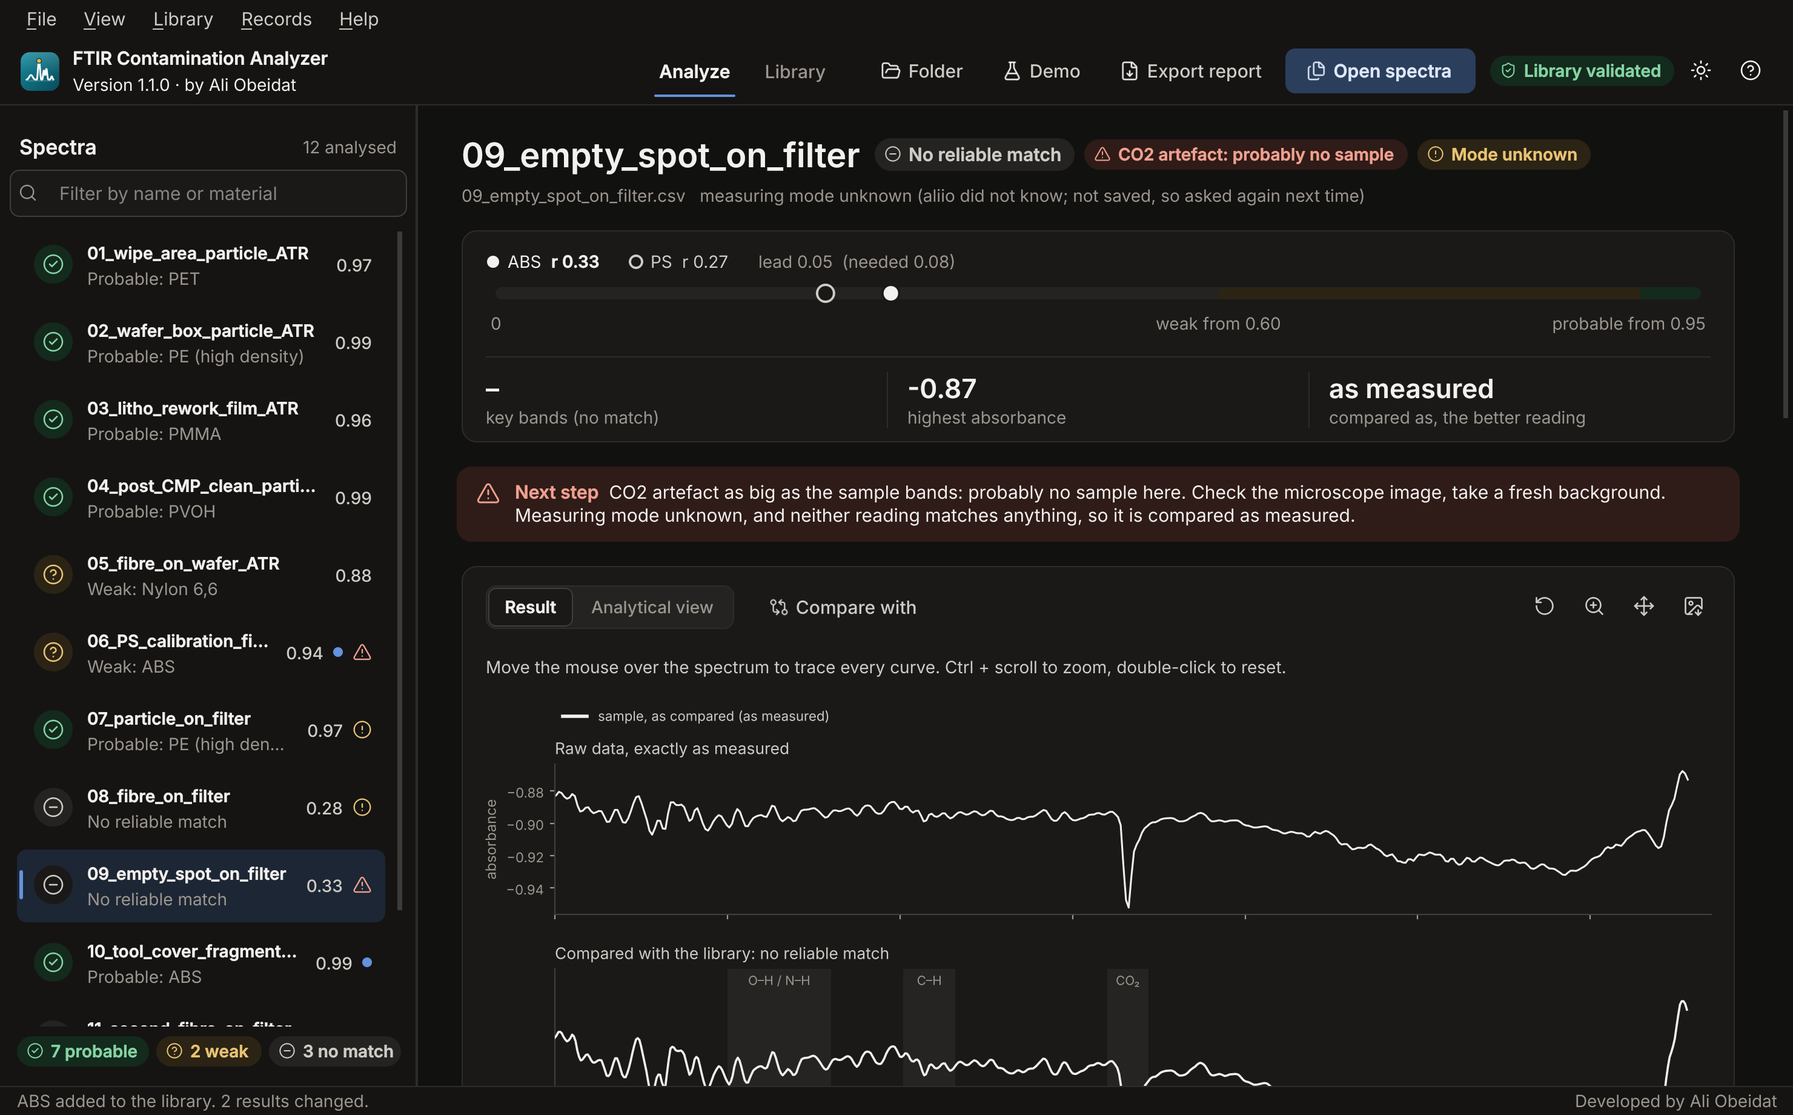
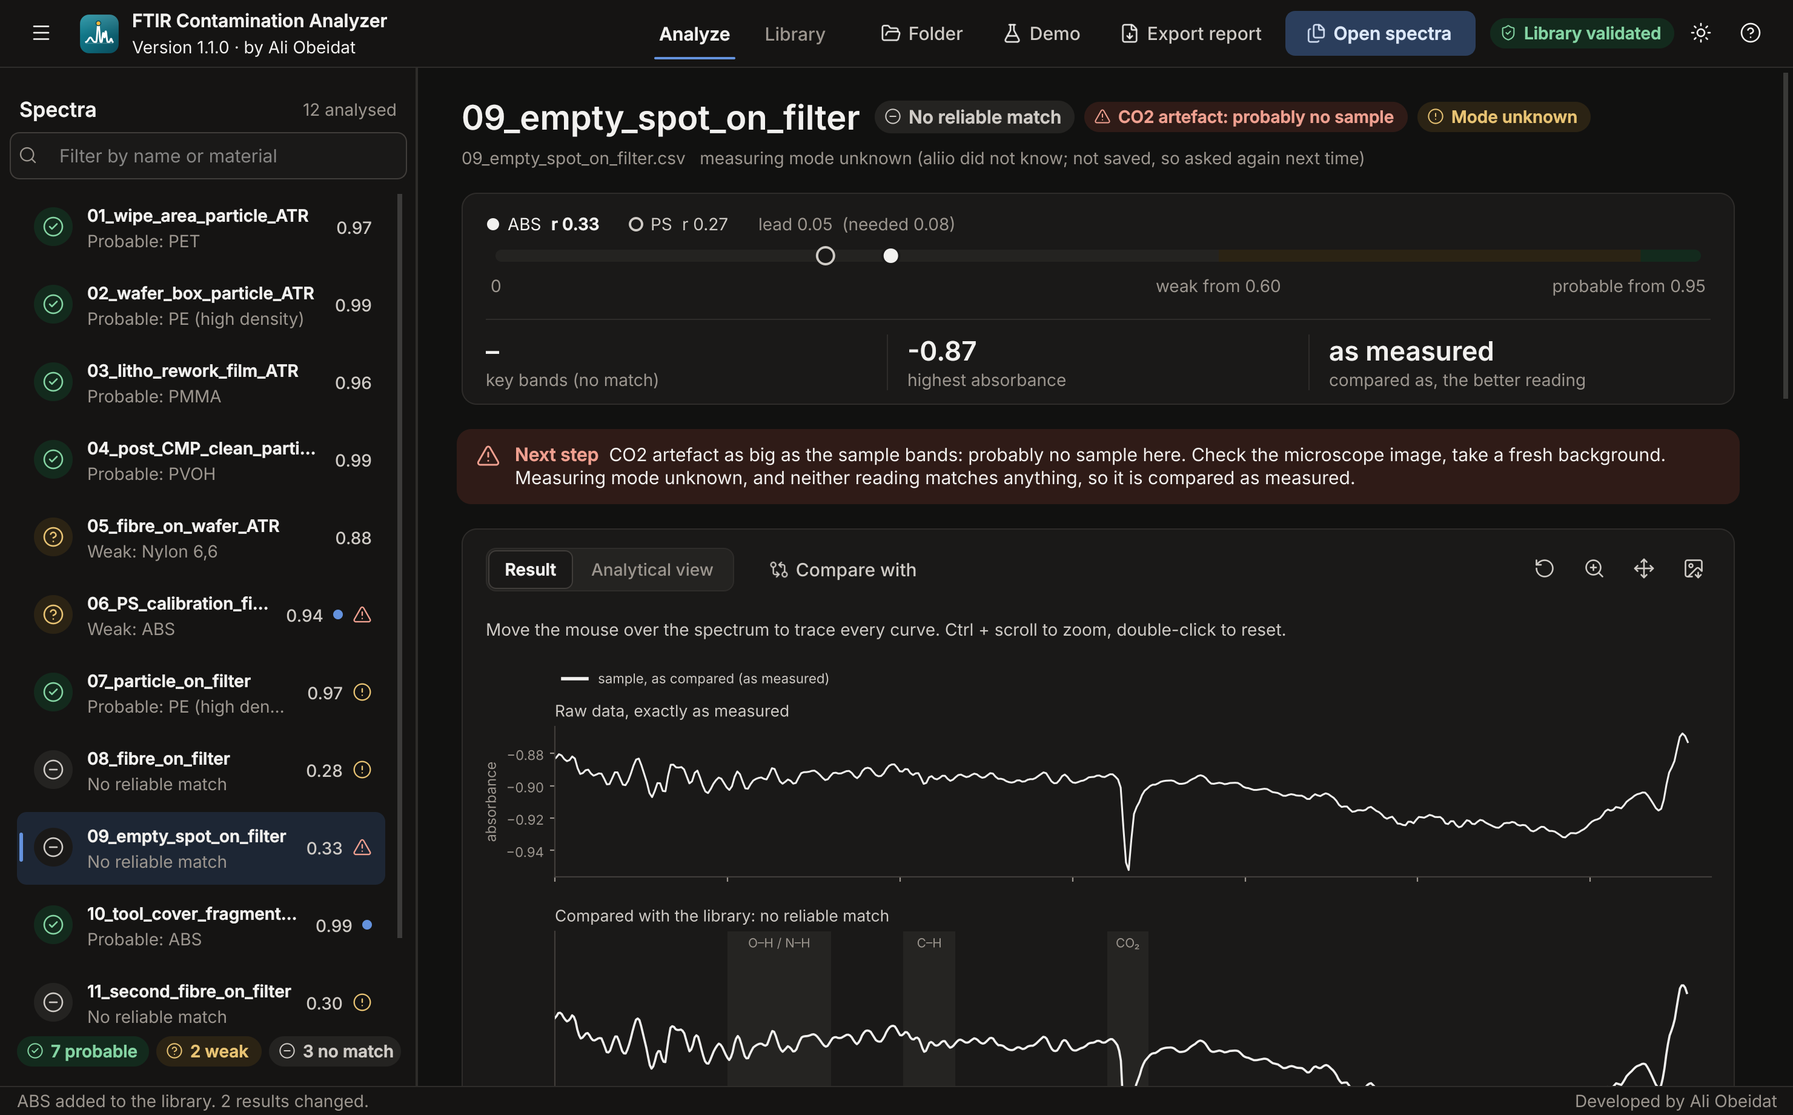
One top bar, clean sheet interactions, docs for the new tools
Top bar
- The menus (File, View, Library, Records, Help) are behind one button at
  the left of the top bar instead of a separate menu bar: one quiet bar.
  Every shortcut still works without opening it. Below 1180 px the name
  next to the logo steps aside, like the version line.

Interactions (found by clicking through the app quickly, then fixed)
- A sheet opened while another was still fading out kept the old one in
  its picture of the window. The old one is now finished at once first.
- Switching the page (Ctrl+1 / Ctrl+2) with a sheet open changed the page
  behind the sheet; the sheet now closes, as it belongs to its page.
- Switching the theme with a sheet open left a light window behind a dark
  sheet and a dark close button on dark; the window behind is photographed
  again once the fade has finished, and the close button recoloured.

Docs
- README: instrument files, another sample over this one, labels on the
  figure, the two-component fit, water vapour, the menu button.
- CHECK_IT_YOURSELF.md: section F with what to look for.
- Screenshots updated; the welcome page names the new file types.

Checked: 114 tests; layout audit 0 issues at 9 window sizes x 3 display
scales; 60 frames per second in every transition.

diff --git a/ftir_analyzer/gui.py b/ftir_analyzer/gui.py
@@ -3,8 +3,9 @@ FTIR Contamination Analyzer - desktop application
 
 The window a lab user works in:
 
-    toolbar       logo and name; the Analyze | Library switch in the middle; Open spectra /
-                  Open folder / Demo / Export report; the library validation badge; light-dark; help
+    toolbar       one bar: the menu (File, View, Library, Records, Help) behind one button, logo
+                  and name; the Analyze | Library switch in the middle; Open spectra / Open folder /
+                  Demo / Export report; the library validation badge; light-dark; help
     Analyze       left: the analysed spectra (status icon, name, match, score, flags), with a filter
                   right: the result of the selected spectrum
                     name, verdict, match and flags
@@ -711,7 +712,9 @@ class MainWindow(QMainWindow):
         self.act_about = make(f"About {__title__}", "", self.show_about)
 
     def _build_menu(self):
-        bar = self.menuBar()
+        """The menus live behind one button at the left of the top bar (no separate menu bar: one
+        quiet bar instead of two). Every action is also on the window, so its shortcut always works."""
+        bar = self.main_menu = QMenu(self)
         file_menu = bar.addMenu("&File")
         for action in (self.act_open, self.act_folder, self.act_demo, None, self.act_export, None,
                        self.act_remove, self.act_clear, None, self.act_quit):
@@ -745,13 +748,22 @@ class MainWindow(QMainWindow):
         grid.setHorizontalSpacing(16)
         header.setFixedHeight(56)
 
-        # left: logo and name
+        # left: the menu, the logo and the name
         left = QHBoxLayout()
         left.setSpacing(10)
+        self.menu_button = QToolButton()
+        self.menu_button.setToolTip("Menu: open, export, view, library, records, help")
+        self.menu_button.setAccessibleName("Menu")
+        self.menu_button.setIconSize(QSize(18, 18))
+        self.menu_button.setPopupMode(QToolButton.InstantPopup)
+        self.menu_button.setMenu(self.main_menu)
+        self.menu_button.setCursor(Qt.PointingHandCursor)
+        left.addWidget(self.menu_button)
+        left.addSpacing(2)
         self.logo = QLabel()
         titles = QVBoxLayout()
         titles.setSpacing(0)
-        title = QLabel(__title__)
+        self.app_title = title = QLabel(__title__)
         title.setObjectName("AppTitle")
         self.subtitle = subtitle = QLabel(f"Version {__version__} · by {__author__}")
         subtitle.setObjectName("AppSubtitle")
@@ -924,7 +936,13 @@ class MainWindow(QMainWindow):
     # ------------------------------------------------------------------ theme and motion
     def apply_theme(self, name):
         """Switch between the light and the dark theme; the old look fades into the new one."""
-        crossfade(self, lambda: self._apply_theme(name))
+        crossfade(self, lambda: self._apply_theme(name), on_done=self._after_theme)
+
+    def _after_theme(self):
+        """An open sheet shows a photo of the window behind it: photograph it again in the new theme
+        (once the fade has finished, so the photo is of the finished window)."""
+        if self.sheet is not None:
+            self.sheet.refresh_background()
 
     def _apply_theme(self, name):
         Theme.t = THEMES.get(name, THEMES["light"])
@@ -937,6 +955,9 @@ class MainWindow(QMainWindow):
             button.setIcon(icon(icon_name, t["on_primary"] if primary else t["header_ink"]))
         self.theme_button.setIcon(icon("sun" if t["name"] == "dark" else "moon", t["header_ink"]))
         self.help_button.setIcon(icon("circle-help", t["header_ink"]))
+        self.menu_button.setIcon(icon("menu", t["header_ink"]))
+        if self.sheet is not None:                                         # an open sheet's close button
+            self.sheet.set_close_icon(icon("x", t["ink_2"]))
         if not self.search.actions():                                      # the magnifier inside the filter box
             self.search.addAction(icon("search", t["muted"], 16), QLineEdit.LeadingPosition)
         self.search.actions()[0].setIcon(icon("search", t["muted"], 16))
@@ -971,6 +992,8 @@ class MainWindow(QMainWindow):
     def show_page(self, page):
         """Show the Analyze page or the Library page (the new page slides in)."""
         target = self.library_page if page == LIBRARY else self.analyze_page
+        if self.sheet is not None and self.pages.currentWidget() is not target:
+            self.sheet.close_sheet()                                   # a sheet belongs to the page it was opened on
         self.nav.set_value(page)
         if target is self.analyze_page and self.pending_glow:          # results changed while it was not shown:
             self.pending_glow = False                                  # they glow once the page has arrived
@@ -1614,7 +1637,7 @@ class MainWindow(QMainWindow):
     def resizeEvent(self, event):
         """On a narrow window the toolbar makes room in two steps (the tooltips still name everything):
         below 1440 px the buttons show only their icons; below 1180 px the library badge shows only its
-        shield and the version line under the name is left out."""
+        shield, and the name and version next to the logo are left out (the window title still names it)."""
         super().resizeEvent(event)
         compact = 2 if self.width() < 1180 else 1 if self.width() < 1440 else 0
         if compact != self.compact:
@@ -1623,6 +1646,7 @@ class MainWindow(QMainWindow):
                 button.setText(f" {self.header_texts[key]}" if primary or not compact else "")
             self.badge.set_compact(compact == 2)
             self.subtitle.setVisible(compact < 2)
+            self.app_title.setVisible(compact < 2)
 
     def closeEvent(self, event):
         if not self.isMaximized():

diff --git a/ftir_analyzer/motion.py b/ftir_analyzer/motion.py
@@ -353,10 +353,13 @@ def rise_in(host, old, new, bands, dy=10, duration=None, on_done=None):
     return Overlay(host, frame, duration, on_done=on_done)
 
 
-def crossfade(widget, change, duration=180):
-    """Run change() (for example: switch the theme) and let the old picture fade into the new one."""
+def crossfade(widget, change, duration=180, on_done=None):
+    """Run change() (for example: switch the theme) and let the old picture fade into the new one.
+    on_done: called when the fade has finished (at once with reduced motion)."""
     if Motion.reduced or not widget.isVisible():
         change()
+        if on_done:
+            on_done()
         return
     old = snapshot(widget)
     change()
@@ -367,7 +370,7 @@ def crossfade(widget, change, duration=180):
         p.setOpacity(ease(EASE_OUT, progress))
         p.drawPixmap(0, 0, new)
 
-    Overlay(widget, frame, duration)
+    Overlay(widget, frame, duration, on_done=on_done)
 
 
 # ---------------------------------------------------------------------------- smooth scrolling
@@ -910,6 +913,9 @@ class Sheet(QWidget):
         self.previous_focus = QApplication.focusWidget()           # gets the keyboard focus back afterwards
         self.setAttribute(Qt.WA_OpaquePaintEvent)
         self.setFocusPolicy(Qt.StrongFocus)
+        for other in host.findChildren(Sheet):                     # a sheet still fading out is finished at once,
+            if other is not self and other.isVisible():            # or it would be on the photo of the window
+                other.finish_now()
         self.background = host.grab()                             # the window behind, photographed once
         self.panel = SheetCard(self)
         self.panel.setObjectName("SheetPanel")
@@ -1059,32 +1065,45 @@ class Sheet(QWidget):
             self.panel.hide()
 
         Moving.start()
-
-        def finished():
-            Moving.end()
-            # hand the focus back first: otherwise Qt moves it on as if Tab had been pressed (a focus ring)
-            back = self.previous_focus if alive(self.previous_focus) and self.previous_focus.isVisible() else self.host
-            back.setFocus(Qt.OtherFocusReason)
-            self.hide()
-            self.closed.emit()
-            self.deleteLater()
-
         self._animation = animate(self, self.progress, 0.0, Motion.ms("sheet_out"), self._frame, QEasingCurve.Linear,
-                                  finished)
+                                  self._finished)
+
+    def _finished(self):
+        Moving.end()
+        # hand the focus back first: otherwise Qt moves it on as if Tab had been pressed (a focus ring)
+        back = self.previous_focus if alive(self.previous_focus) and self.previous_focus.isVisible() else self.host
+        back.setFocus(Qt.OtherFocusReason)
+        self.hide()
+        self.closed.emit()
+        self.deleteLater()
+
+    def finish_now(self):
+        """Gone at once, without the fade (another sheet is opening in its place)."""
+        if not self.closing:
+            self.close_sheet()
+        if alive(self._animation):
+            stop(self._animation)
+            self._finished()
 
     def eventFilter(self, obj, event):
         if self.closing:
             return False
         if obj is self.host and event.type() == QEvent.Resize:
-            self.hide()                                            # photograph the resized window without the sheet
-            self.setGeometry(self.host.rect())
-            self.background = self.host.grab()
-            self._place_panel()
-            self.show()
-            self.raise_()
+            self.refresh_background()
         elif obj is self.content and event.type() == QEvent.LayoutRequest and self.has_arrived and not self.tall:
             QTimer.singleShot(0, self._refit)                      # the content changed size: follow it
         return False
+
+    def refresh_background(self):
+        """Photograph the window behind again (it was resized, or its theme changed), without the sheet."""
+        if self.closing:
+            return
+        self.hide()
+        self.setGeometry(self.host.rect())
+        self.background = self.host.grab()
+        self._place_panel()
+        self.show()
+        self.raise_()
 
     def _refit(self):
         if alive(self) and not self.closing and self._panel_rect() != self.panel.geometry():

diff --git a/tests/test_gui.py b/tests/test_gui.py
@@ -397,3 +397,30 @@ def test_exporting_a_signed_report(app, window, tmp_path):
     assert window.settings.value("user_name") == "Ali Obeidat"                  # remembered for next time
     assert "Ali Obeidat" in window.signature_log.read_text(encoding="utf-8")
     window.report_box.close()
+
+
+def test_sheets_never_leave_a_trace(app, window):
+    """With animations on: a sheet opened while another is still fading out does not keep it in its
+    picture of the window; switching the page closes the sheet; switching the theme re-photographs
+    the window behind an open sheet."""
+    from ftir_analyzer.motion import Sheet
+    Motion.reduced = False
+    try:
+        window.show_page(LIBRARY)
+        wait(app, lambda: False, 0.6)
+        window.open_similarity()
+        wait(app, lambda: window.sheet is not None and window.sheet.has_arrived, 5)
+        first = window.sheet
+        first.close_sheet()                                              # still fading out ...
+        window.open_material("PET")                                      # ... when the next one opens
+        assert not first.isVisible()                                     # finished at once, not photographed
+        wait(app, lambda: window.sheet.has_arrived, 5)
+        assert [s for s in window.centralWidget().findChildren(Sheet) if s.isVisible()] == [window.sheet]
+        before = window.sheet.background.toImage()
+        window.apply_theme("dark")
+        wait(app, lambda: window.sheet.background.toImage() != before, 5)  # the window behind, photographed again
+        window.show_page("analyze")
+        wait(app, lambda: window.sheet is None, 5)                       # a sheet belongs to its page
+    finally:
+        window.apply_theme("light")
+        Motion.reduced = True

diff --git a/ftir_analyzer/widgets.py b/ftir_analyzer/widgets.py
@@ -1030,7 +1030,8 @@ class EmptyState(QWidget):
         self.library_link.setObjectName("Link")
         for button in (self.choose, self.demo, self.library_link):
             button.setCursor(Qt.PointingHandCursor)
-        self.formats = QLabel("CSV, TXT or DPT exports in %T or absorbance, with or without a header line")
+        self.formats = QLabel("CSV, TXT or DPT exports, JCAMP-DX (.jdx) or Bruker OPUS (.0, .1 …) files, "
+                              "in %T or absorbance")
         self.formats.setObjectName("SectionHint")
         self.formats.setAlignment(Qt.AlignCenter)
         self.formats.setWordWrap(True)

diff --git a/README.md b/README.md
@@ -139,7 +139,7 @@ SETTINGS = {
 
 | Action | How |
 | --- | --- |
-| Open spectrum files | **Open spectra** or `Ctrl+O` (CSV / TXT / DPT, %T or absorbance, with or without a header, any separator) |
+| Open spectrum files | **Open spectra** or `Ctrl+O`: CSV / TXT / DPT exports (%T or absorbance, with or without a header, any separator), or the instrument's own files: **JCAMP-DX** (`.jdx`, `.dx`) and **Bruker OPUS** (`.0`, `.1`, …). An instrument file that says how it was measured (ATR or transmission) is not asked about |
 | Open a whole folder | **Open folder** or `Ctrl+Shift+O` |
 | Drag and drop | Drop files or a folder anywhere on the window |
 | Try it | **Demo**: twelve real measurements with known answers ([`examples/README.md`](examples/README.md)) |
@@ -147,6 +147,7 @@ SETTINGS = {
 | Trace the curves | Move the mouse over the spectrum: a dot on every curve, their values, and the band's name |
 | Every processing step | Switch **Result → Analytical view** above the figure |
 | Compare with another material | **Compare with** above the figure, or click one of the **Closest matches** under it |
+| Two finds the same material? | **Compare with → Another sample over this one**: the other sample is drawn as a dashed line, with r between the two in the legend (0.96 for the two PE particles 02 and 07) |
 | See how the shapes differ | **Closest matches**: the best four, side by side; *Spectrum* or *Fingerprint* |
 | Zoom, pan, reset | `Ctrl` + mouse wheel zooms around the mouse, double-click resets, or use the buttons above the figure |
 | Save a figure | The save button: PNG at 300 or 600 dpi, SVG or PDF (vector: any size). Saves the view on screen |
@@ -156,8 +157,9 @@ SETTINGS = {
 | More references | **Library → Open Specy…**: download or import; then switch **Fab essentials / Extended** |
 | Add a reference | **Add to library…** on a result that is not *probable*, or **Library → Add a reference…** (`Ctrl+N`) |
 | Light / dark | The moon / sun button or `Ctrl+T`. **View → Reduce motion** switches the animations off |
-| Records | **Records** menu: sample log, audit log, signatures, each as a formatted Excel copy. **Library** menu: the library change log |
-| Help | `F1` (how it works), **Help → About** |
+| The menus | The **☰** button at the left of the top bar: File, View, Library, Records, Help. Every shortcut works without opening it |
+| Records | **☰ → Records**: sample log, audit log, signatures, each as a formatted Excel copy. **☰ → Library**: the library change log |
+| Help | `F1` (how it works), **☰ → Help → About** |
 
 When a file does not say how it was measured (ATR or transmission), the program asks once, then saves
 the answer in the sample log with your user name and the date. Nothing is written into the raw files.
@@ -172,6 +174,22 @@ readings differ, and changes no verdict. When a mode *is* given but the other on
 transmission: "it fits clearly better as ATR (r 0.97 against 0.81)".
 
 ![Measuring-mode dialog](docs/mode_dialog.png)
+
+**On the figure.** The tallest bands carry their wavenumber; zone names, "unexplained" and the CO₂
+note each take the first place where they touch no other label, curve or line, and this is worked out
+again whenever the window changes size. Unexplained bands that find no room beside their line are
+named together on the panel's title line.
+
+**Second component?** When the match leaves clear bands unexplained, the program fits the spectrum as
+a mix of the match and each other reference (plus a straight background line). If one clearly helps
+(fit r up by 0.02 or more, at least 10 % of the band height, and it has the unexplained bands), the
+band evidence says so, e.g. "Fits as about 70 % PE + 30 % PET". The shares are of the band height,
+not of the mass, and the verdict itself is not changed. If none helps (as for the 1030 cm⁻¹ band of
+demo 07), it says the second material is probably not in the library.
+
+**Water vapour.** The sharp comb of water-vapour lines (air in the beam: purge longer or take a fresh
+background) is looked for at 3580–3950 cm⁻¹ on the file's own points; demo 06 has them. Files with
+points more than 4 cm⁻¹ apart are "not measured", because there the lines cannot be seen.
 
 ### Analytical view
 

diff --git a/examples/CHECK_IT_YOURSELF.md b/examples/CHECK_IT_YOURSELF.md
@@ -119,7 +119,7 @@ transmission sample) and how many did not say (used as measured). The badge must
    "**Accepted**, signed by Ali Obeidat (your login) on …", with your comment. Without signing, the
    report has fields you can type into before printing, and says **Not signed yet**.
 3. The report's folder also has **report.xlsx**: the results as a formatted Excel table.
-4. **Records → Signatures (Excel)**: one row for the signed report, with the decision in colour and
+4. **☰ (top left) → Records → Signatures (Excel)**: one row for the signed report, with the decision in colour and
    the start of the report's SHA-256. **Records → Audit log (Excel)** and **Sample log (Excel)** open
    the same way.
 5. In the open report, make the browser window narrow (half the screen), then wide again.
@@ -128,6 +128,26 @@ transmission sample) and how many did not say (used as measured). The badge must
 6. **Ctrl+P** (print preview). **You should see:** white paper with dark text, even if Windows is in
    dark mode, and the "Raw data and traceability" and "Analytical view" sections printed open.
    Cancel the print; the sections close again.
+
+## F. The new tools (labels, overlay, second component, water vapour, instrument files)
+
+1. Open the demo spectra and click **07_particle_on_filter**. **You should see:** above the score strip
+   "PE (high density) r 0.97", a hollow dot for EVA at 0.59; in the figure the labels 2915, 2850,
+   1465 and 720 above their peaks, and "1030 cm⁻¹ unexplained" beside its dashed line, not touching
+   it. Make the window narrow and wide: the labels move or hide, they never overlap.
+2. Under the figure, **Band evidence → Two-component fit** says that no mix explains 1030 clearly:
+   the second material is probably not in the library.
+3. **Compare with → Another sample over this one → 02_wafer_box_particle_ATR.** **You should see:** a
+   dashed line almost on top of the sample, and in the legend "other sample: 02_… (r = 0.96 to this
+   one)": the two particles are the same material. Choose **No other sample** to remove it.
+4. Click **06_PS_calibration_film_transmission**. **You should see:** the flags *Saturated bands* and
+   *Water-vapour lines*, and under **Checks on the raw spectrum** a row "Water vapour: 11.9× the
+   wiggle of the quiet windows → water-vapour lines".
+5. Open a sheet (e.g. **Library → Similarity map**), then press `Ctrl+T`: the window behind it turns
+   dark too. Press `Ctrl+1`: the sheet closes and the Analyze page shows.
+6. If you have a JCAMP-DX (`.jdx`) or Bruker OPUS (`.0`) file from an instrument: open it like any other
+   file. **You should see:** it is analysed; if the file says how it was measured, the program does
+   not ask.
 
 ## Checklist
 
@@ -144,7 +164,10 @@ transmission sample) and how many did not say (used as measured). The badge must
 | 07, mode transmission | Weak PE (0.81), flag mode doubt |
 | After adding Nylon 6 | stays on Analyze; 05 glows; "Changed … → Probable: Nylon 6 (r 0.96)" note |
 | Export → sign | report says "Signed: Accepted" and who and when; a row in Signatures |
-| Records menu | each log opens as a formatted Excel copy |
+| Records menu (☰) | each log opens as a formatted Excel copy |
+| 07 figure | labels 2915 / 2850 / 1465 / 720; "1030 cm⁻¹ unexplained" clear of its line |
+| 02 over 07 | dashed line, r = 0.96 to this one |
+| 06 | flag Water-vapour lines (11.9×) |
 
 The Nylon 6 reference is from FasTEX-KCL (MIT, Reeha Parkar) and the dataset of Parkar et al.
 (2025), see `../THIRD_PARTY_NOTICES.md`.
